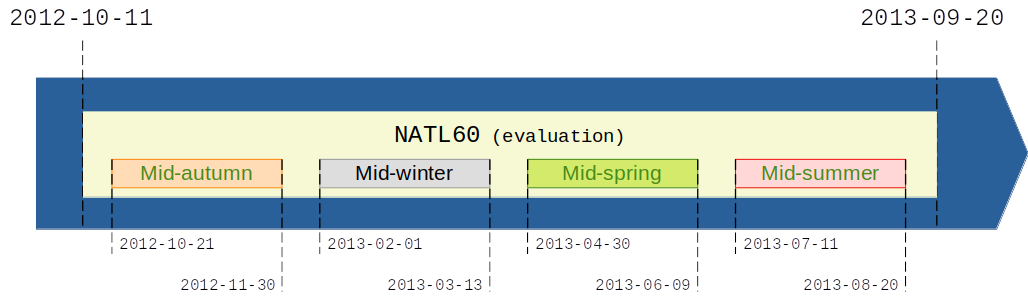
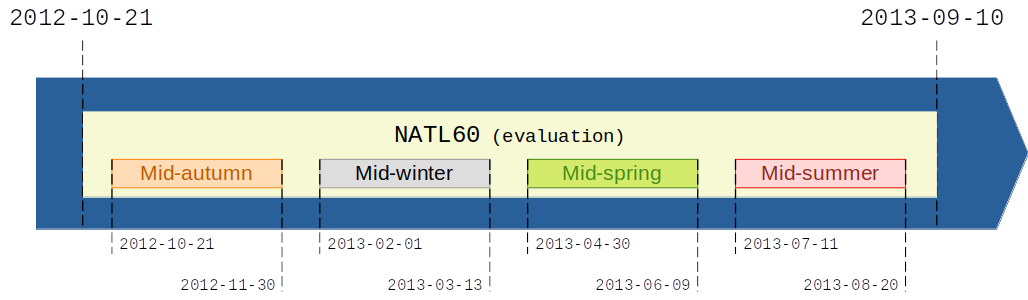
Add GRE and MAD's scores, precision of eval period and fix diagrams' colours

diff --git a/README.md b/README.md
@@ -20,7 +20,7 @@ The SSH observations include simulations of seven altimeters data: Jason-3, Sent
 
 ### Data sequence and use
 
-The reconstruction of the SSH is evaluated on the **NATL60** domain over the whole year, which corresponds to the period from 2012-10-11 to 2013-09-20.
+The reconstruction of the SSH is evaluated on the **NATL60** domain over the whole year; however, 20 days are cropped at the beginning and at the end of this period for methods which might suffer from side effets. Therefore, the actual evaluation period (from which the metrics are computed) starts the 2012-10-21 and ends the 2013-09-10.
 
 For reconstruction methods that require learning from complete SSH fields, training is carried out on the **eNATL60** domain over the whole year, which corresponds to the period from 2009-07-01 to 2010-06-30. The validation subset can be chosen from the latter.
 
@@ -31,16 +31,7 @@ middle of each season:
 
 <img src='figures/sub_periods_seasons.png' alt='Sub-periods NATL diagram'>
 
-<!--
-To highlight the particularities of the different seasons of the year, sub-periods of 40 days in the middle of each season are defined. In this situation, for learning-based methods, training on the X sub-periods of eNATL60 would naturally lead to the assessment of the model on X sub-periods of NATL60 or the whole domain
 
-TODO: parler des sous-périodes (milieux de saisons)
-
-- Hiver     : YYYY-02-01 à YYYY-03-13
-- Printemps : YYYY-04-30 à YYYY-06-09
-- Été       : YYYY-07-11 à YYYY-08-20
-- Automne   : YYYY-10-21 à YYYY-11-30
--->
 ### Domains for evaluation
 
 As we waim to evaluate the reconstruction performance of the different mapping methods at the scale of the North Atlantic basin, we define 3 different regions for the calculation of reconstruction metrics. The selected regions show strong disparities in terms of ocean variability, but also in terms of spatial coverage by the altimeter constellation due to their different latitudes. They seem a good choice for estimating the performance of the mapping methods in various situations in the North Atlantic basin.
@@ -129,8 +120,8 @@ As we waim to evaluate the reconstruction performance of the different mapping m
 |                  | GRE      | 0.956     | 0.006   | 1.112  | 15.5      |                          |
 |                  | MAD      | 0.951     | 0.008   | 0.926  | 21.93     |                          |
 | 4DVarNet 1/8°    | GF       | 0.959     | 0.006   | 0.852  | 5.55      | eval_4dvarnet_1_8.ipynb  |
-|                  | GRE      |    -      |    -    |   -    |     -     |                          |
-|                  | MAD      |    -      |    -    |   -    |     -     |                          |
+|                  | GRE      | 0.953     | 0.007   | 1.038  | 11.05     |                          |
+|                  | MAD      | 0.951     | 0.009   | 0.937  | 13.032    |                          |
 
 **Mid Autumn** :
 | Method           | Domain   | µ(RMSE)   | σ(RMSE) | λx (°) | λt (days) | Reference                |
@@ -139,8 +130,8 @@ As we waim to evaluate the reconstruction performance of the different mapping m
 |                  | GRE      | 0.958     | 0.005   | 1.392  | 6.36      |                          |
 |                  | MAD      | 0.952     | 0.006   | 1.229  | 4.4       |                          |
 | 4DVarNet 1/8°    | GF       | 0.967     | 0.005   | 0.867  | 4.77      | eval_4dvarnet_1_8.ipynb  |
-|                  | GRE      |    -      |    -    |   -    |     -     |                          |
-|                  | MAD      |    -      |    -    |   -    |     -     |                          |
+|                  | GRE      | 0.956     | 0.006   | 1.177  | 5.636     |                          |
+|                  | MAD      | 0.950     | 0.010   | 1.128  | 13.92     |                          |
 
 **Mid Winter** :
 | Method           | Domain   | µ(RMSE)   | σ(RMSE) | λx (°) | λt (days) | Reference                |
@@ -149,8 +140,8 @@ As we waim to evaluate the reconstruction performance of the different mapping m
 |                  | GRE      | 0.953     | 0.006   | 1.312  | 11.01     |                          |
 |                  | MAD      | 0.943     | 0.006   | 1.209  | 4.72      |                          |
 | 4DVarNet 1/8°    | GF       | 0.957     | 0.004   | 0.894  | 5.31      | eval_4dvarnet_1_8.ipynb  |
-|                  | GRE      |    -      |    -    |   -    |     -     |                          |
-|                  | MAD      |    -      |    -    |   -    |     -     |                          |
+|                  | GRE      | 0.948     | 0.007   | 1.177  | 11.20     |                          |
+|                  | MAD      | 0.942     | 0.007   | 1.041  |  5.389    |                          |
 
 **Mid Spring** :
 | Method           | Domain   | µ(RMSE)   | σ(RMSE) | λx (°) | λt (days) | Reference                |
@@ -159,8 +150,8 @@ As we waim to evaluate the reconstruction performance of the different mapping m
 |                  | GRE      | 0.958     | 0.002   | 1.269  | 12.24     |                          |
 |                  | MAD      | 0.951     | 0.003   | 1.138  | 17.65     |                          |
 | 4DVarNet 1/8°    | GF       | 0.955     | 0.006   | 0.911  | 5.74      | eval_4dvarnet_1_8.ipynb  |
-|                  | GRE      |    -      |    -    |   -    |     -     |                          |
-|                  | MAD      |    -      |    -    |   -    |     -     |                          |
+|                  | GRE      | 0.956     | 0.002   | 1.22   | 9.283     |                          |
+|                  | MAD      | 0.952     | 0.003   | 0.97   | 13.653    |                          |
 
 **Mid Summer** :
 | Method           | Domain   | µ(RMSE)   | σ(RMSE) | λx (°) | λt (days) | Reference                |
@@ -169,8 +160,8 @@ As we waim to evaluate the reconstruction performance of the different mapping m
 |                  | GRE      | 0.963     | 0.002   | 1.227  | 13.09     |                          |
 |                  | MAD      | 0.96      | 0.002   | 1.346  | 12.7      |                          |
 | 4DVarNet 1/8°    | GF       | 0.956     | 0.004   | 0.929  | 5.56      | eval_4dvarnet_1_8.ipynb  |
-|                  | GRE      |    -      |    -    |   -    |     -     |                          |
-|                  | MAD      |    -      |    -    |   -    |     -     |                          |
+|                  | GRE      | 0.958     | 0.002   | 1.05   |  6.536    |                          |
+|                  | MAD      | 0.9599    | 0.003   | 1.001  | 14.863    |                          |
 
 With:
 - µ(RMSE): average RMSE score;
